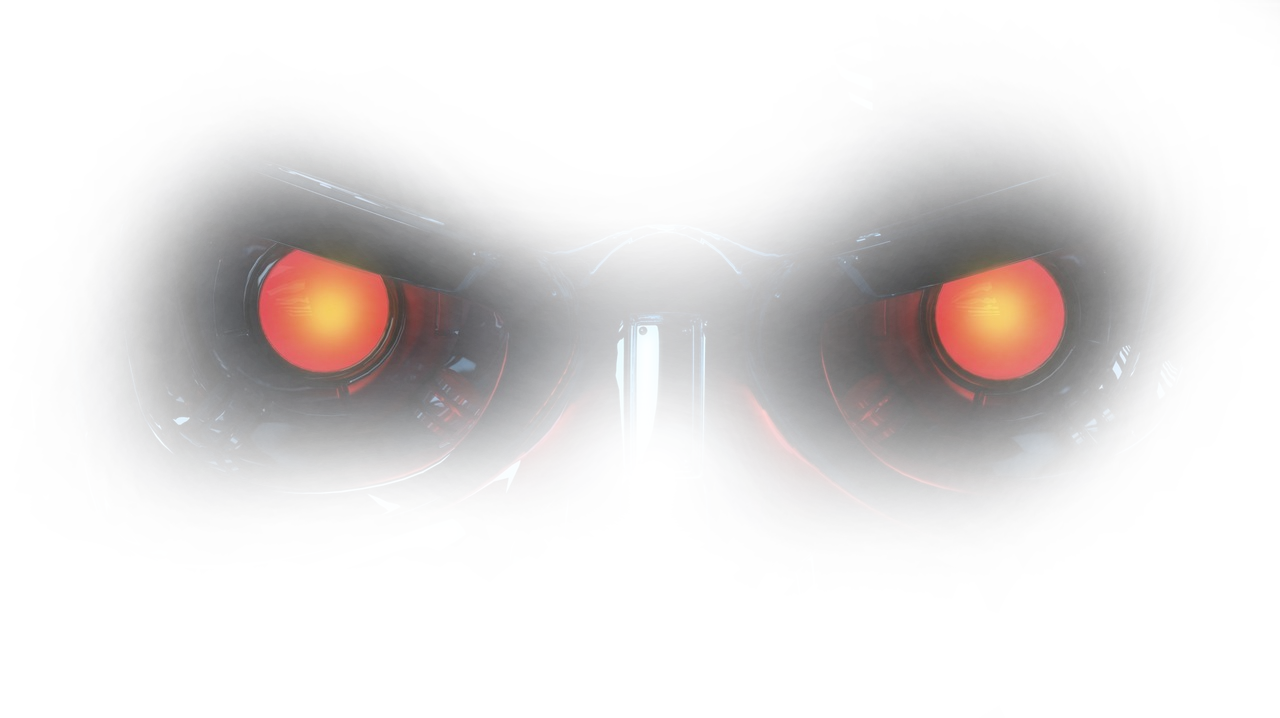
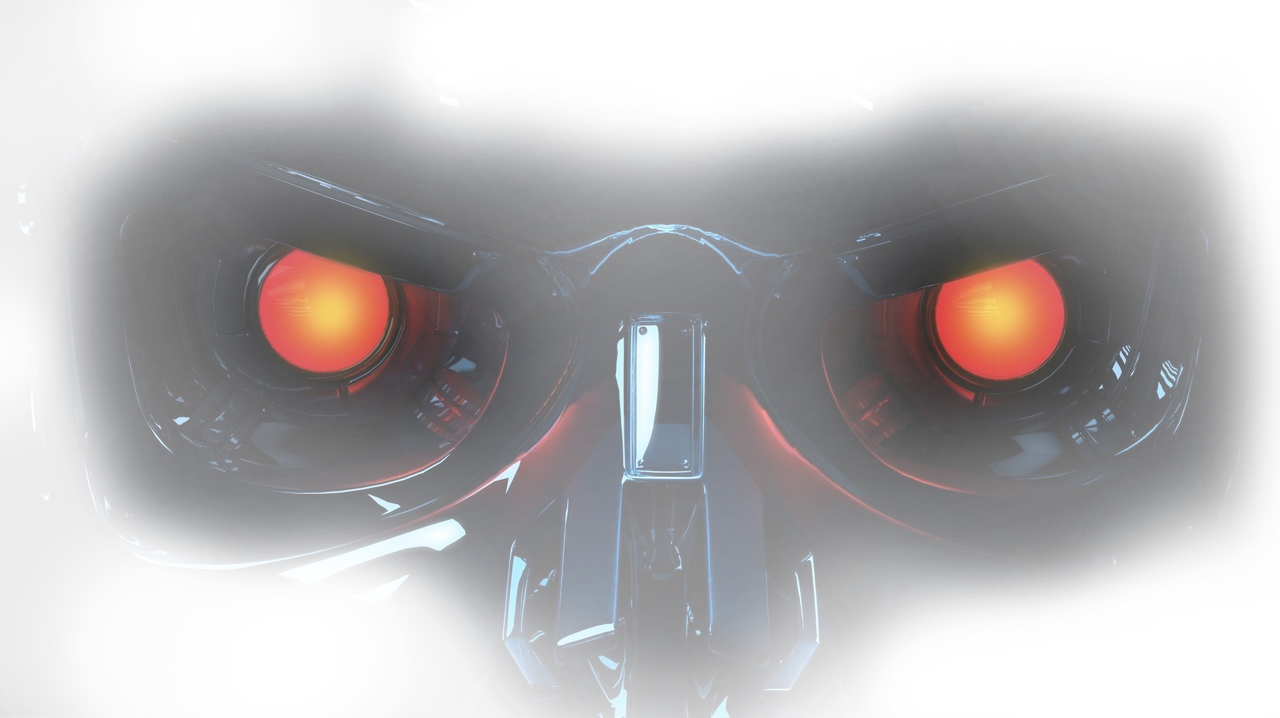
Fixed image and animation

diff --git a/src/pages/intro/intro.scss b/src/pages/intro/intro.scss
@@ -35,12 +35,12 @@ page-intro {
     left: 50%;
     transform: translate(-50%, -50%);
     transition: opacity .8s;
-    transition-timing-function: cubic-bezier(1,.04,.94,.12);
+    transition-timing-function: cubic-bezier(.84,.05,.94,.22);
     opacity: 0;
   }
 
   .eyesLeaving {
-    opacity: .7;
+    opacity: .75;
   }
 
   .eyes img {

diff --git a/src/pages/intro/intro.html b/src/pages/intro/intro.html
@@ -3,7 +3,7 @@
         Welcome to HAIRNet
     </div>
     <div  class="eyes" [class.eyesLeaving]="leaving">
-        <img src="assets/eyes2.png" />
+        <img src="assets/eyes.png" />
     </div>
     <div  class="logo">
         <img src="assets/HairNetLogo.gif" />
